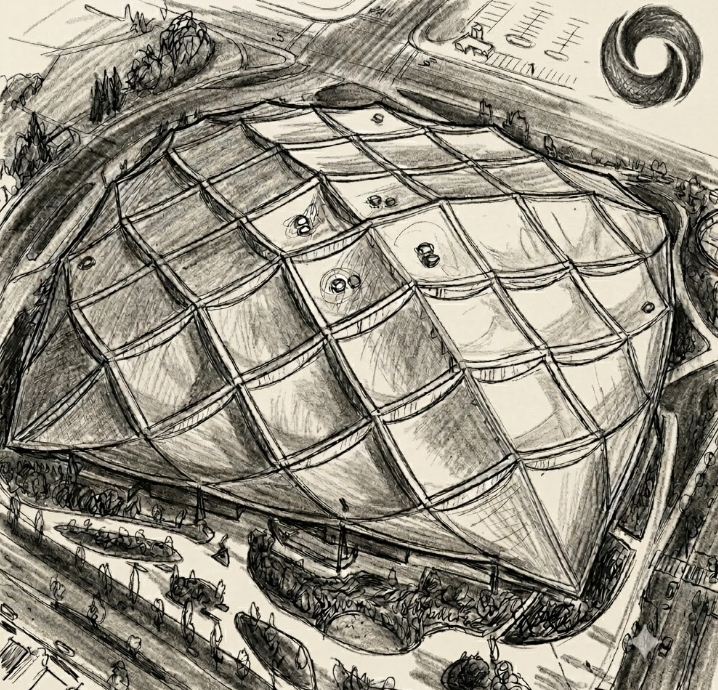
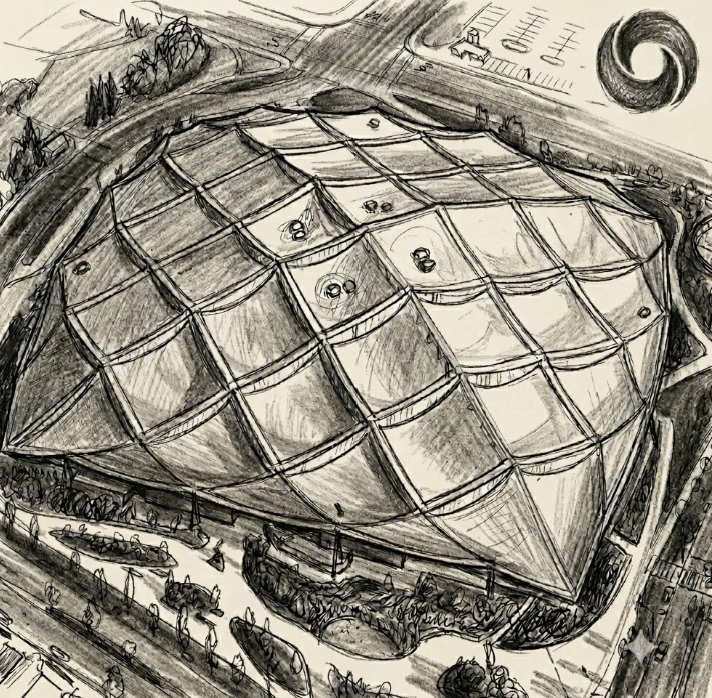
Update Google Deepmind and Google tile backgrounds and descriptions

diff --git a/resume/index.html b/resume/index.html
@@ -100,11 +100,11 @@
 
                     <a href="#" class="tile" id="tile-google">
                         <div class="tile-image">
-                            <img src="../assets/thoughts.png" alt="Google background">
+                            <img src="../assets/google.jpg" alt="Sketch of hands holding a Google Fi phone and SIM card kit representing career role">
                         </div>
                         <div class="tile-text">
                             <p class="tile-title">Google</p>
-                            <p class="tile-desc">Search, cloud, and infrastructure.</p>
+                            <p class="tile-desc">Senior Product Ops Lead, Google Fi</p>
                         </div>
                     </a>
 